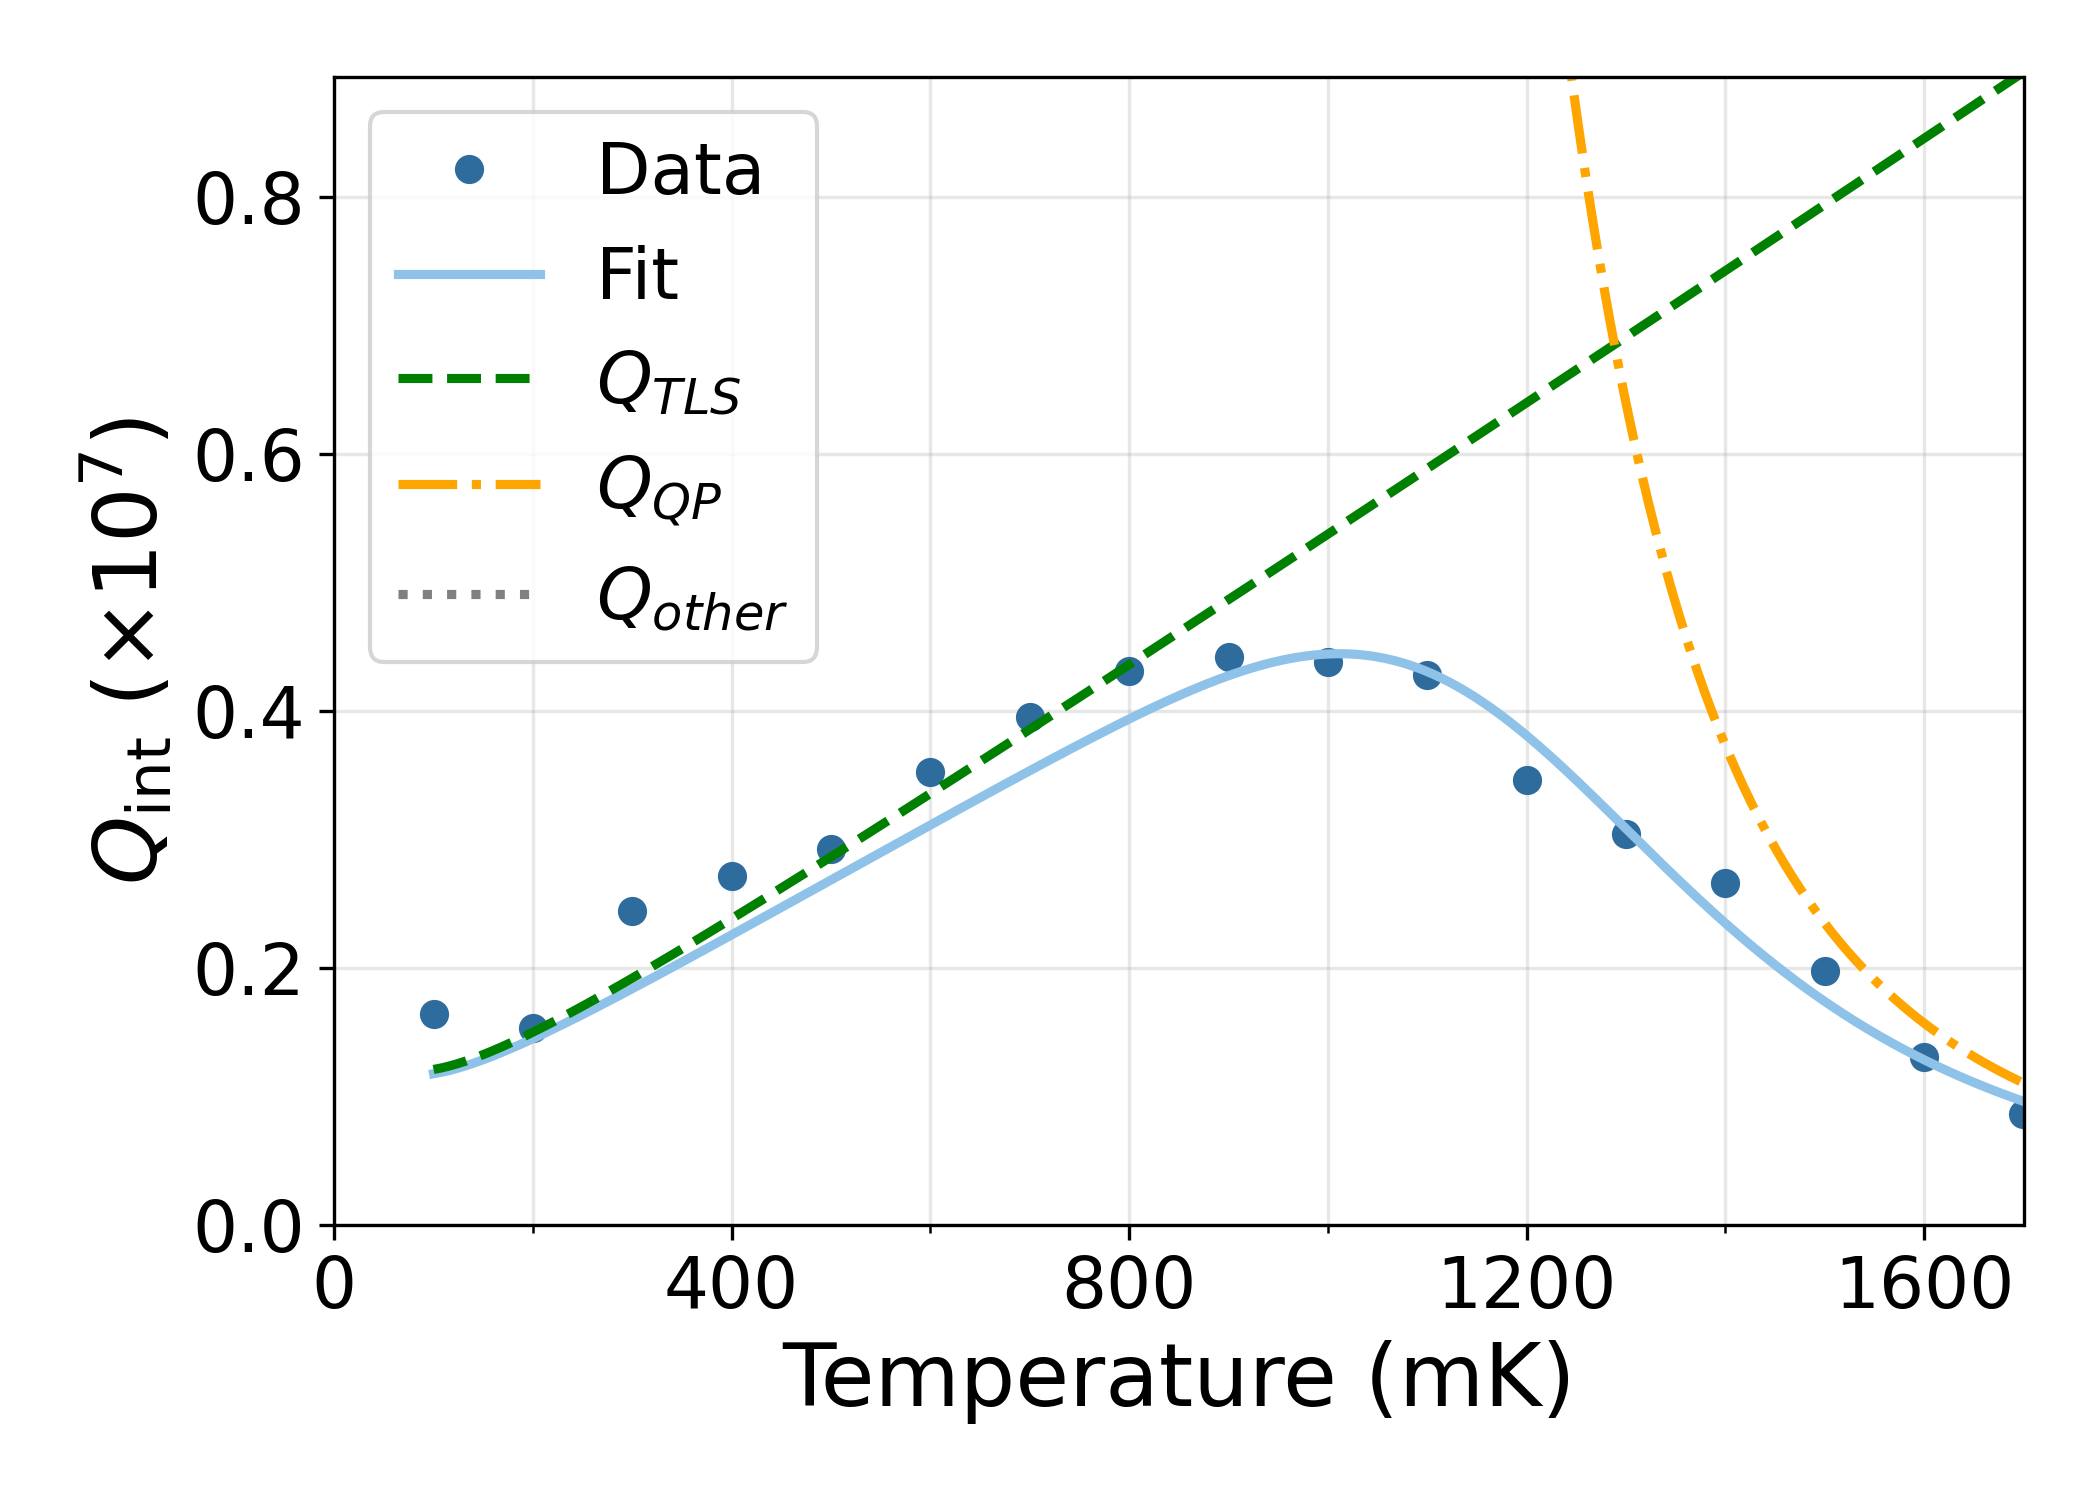
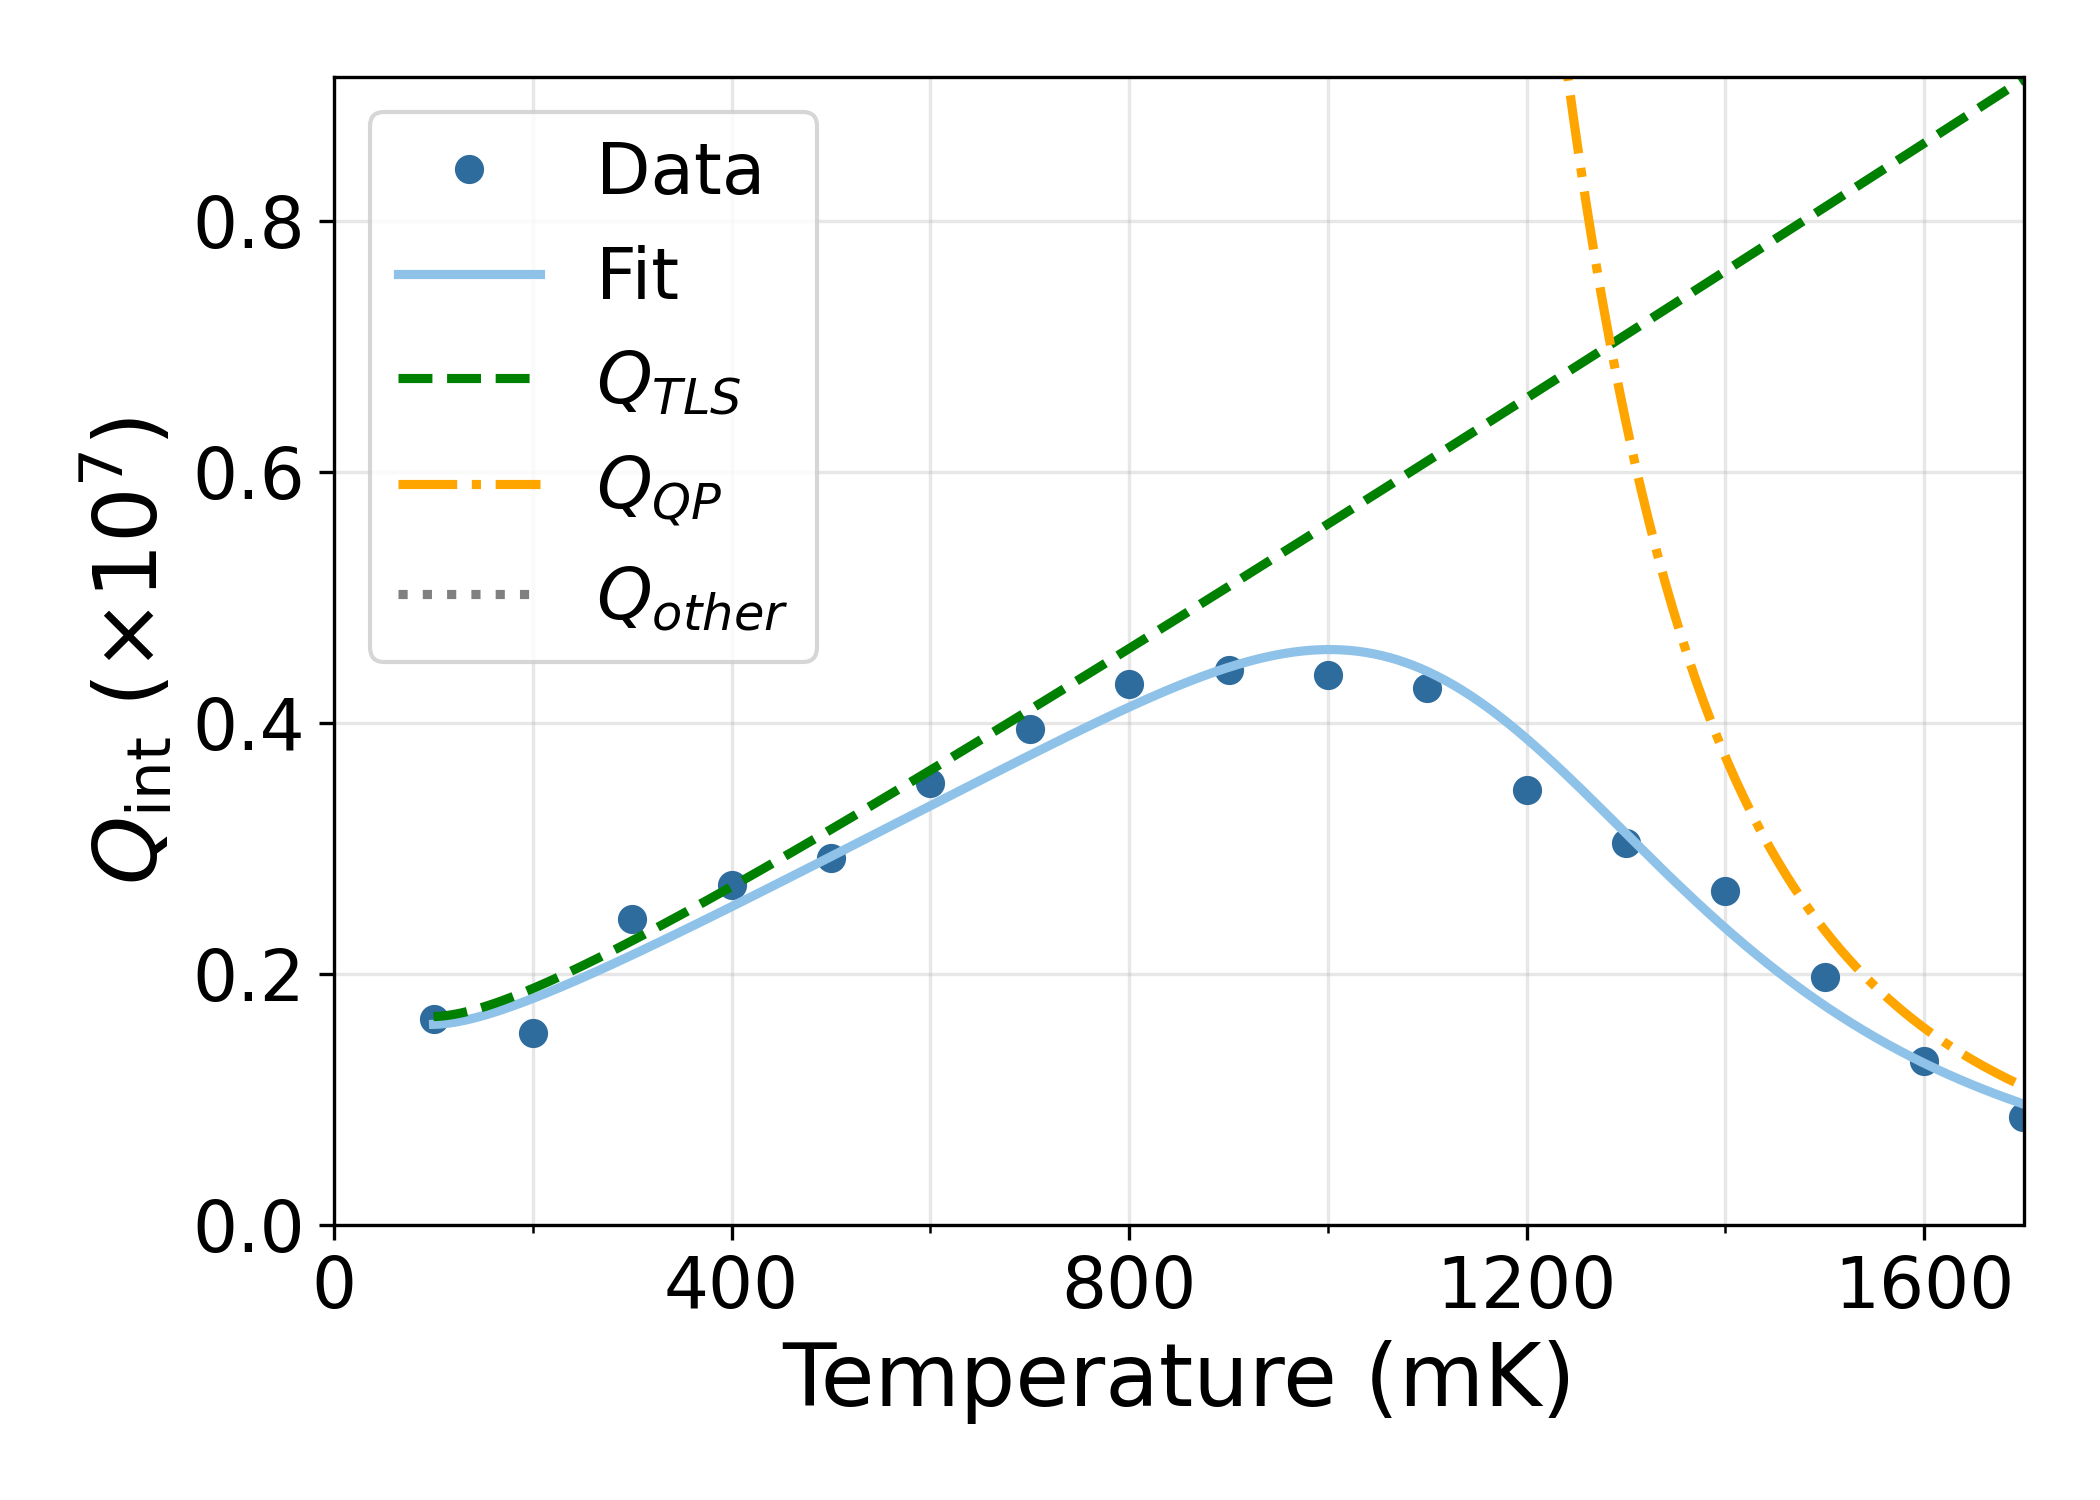
Fix Qint loss-channel params and bump version to 0.2.1

diff --git a/cpwfit/models/qint_loss_channels.py b/cpwfit/models/qint_loss_channels.py
@@ -28,7 +28,7 @@ def Q_TLS(T, Q_TLS_0, beta1, beta2, D):
     omega = 2 * np.pi * f_res
     arg = hbar * omega / (2 * kB * T)
     tanh_arg = np.tanh(arg)
-    core = 1.0 + (NBAR_CONST * beta2 / (D * T**beta1)) * tanh_arg
+    core = 1.0 + (NBAR_CONST ** beta2 / (D * T**beta1)) * tanh_arg
     return Q_TLS_0 * (np.sqrt(core) / tanh_arg)
 
 def Q_QP(T, A_QP, Tc):
@@ -59,22 +59,25 @@ def load_data(csv_path):
     Q = df[qcol].to_numpy()
     return T, Q
 
-def load_fixed_params(fixed_json_path, expected, required_keys):
+def load_fixed_params(fixed_json_path, required_keys):
+    """Load fixed parameters strictly from JSON.
+
+    - `fixed_json_path` must exist and contain a top-level key "params".
+    - All `required_keys` must be present in that dict.
+    """
     with open(fixed_json_path, "r") as f:
         fixed = json.load(f)
     if "params" not in fixed:
         raise KeyError("Key 'params' missing in fixed params JSON.")
     p = fixed["params"]
+
+    # Enforce presence of all required keys
     missing = [k for k in required_keys if k not in p]
     if missing:
         raise KeyError(f"Missing parameter keys in JSON: {missing}")
-    # Use JSON if present; override to EXPECTED if any difference
-    params = {k: float(p.get(k, expected[k])) for k in required_keys}
-    mismatch = [k for k in required_keys if not np.isclose(params[k], expected[k], rtol=0, atol=0)]
-    if mismatch:
-        print(f"Overriding to provided weighted params for: {', '.join(mismatch)}")
-        params.update(expected)
-    return params
+
+    # Return only the required keys, as floats
+    return {k: float(p[k]) for k in required_keys}
 
 def crosspoint_upper_y(Q_tls_curve, Q_qp_curve, margin=1.30):
     # Find TLS–QP crossing (or closest approach), compute y-upper (×1e7 units) with margin
@@ -120,16 +123,9 @@ if fixed_json_path is None:
 T_data, Qint_data = load_data(csv_path)
 
 REQUIRED = ["Q_TLS_0", "beta1", "beta2", "D", "Q_other", "A_QP", "Tc"]
-EXPECTED = {
-    "Q_TLS_0": 702034.5791713039,
-    "beta1":   0.5633765494406937,
-    "beta2":   0.31438135746391943,
-    "D":       1.0771171131840873,
-    "Q_other": 42738370.852098696,
-    "A_QP":    450.4365833076074,
-    "Tc":      6.0333925474881,
-}
-params = load_fixed_params(fixed_json_path, EXPECTED, REQUIRED)
+
+# JSON must fully define all required keys
+params = load_fixed_params(fixed_json_path, REQUIRED)
 
 Q_TLS_0 = params["Q_TLS_0"]; beta1 = params["beta1"]; beta2 = params["beta2"]
 D = params["D"]; Q_other = params["Q_other"]; A_QP = params["A_QP"]; Tc = params["Tc"]

diff --git a/cpwfit/__init__.py b/cpwfit/__init__.py
@@ -9,7 +9,7 @@ from .models import qint_singlecurve, qint_allcurves_lin, qint_allcurves_semilog
 try:
     __version__ = version("cpwfit")
 except PackageNotFoundError:
-    __version__ = "0.0.0"
+    __version__ = "0.0.2"
 
 __all__ = [
     "plotting",
